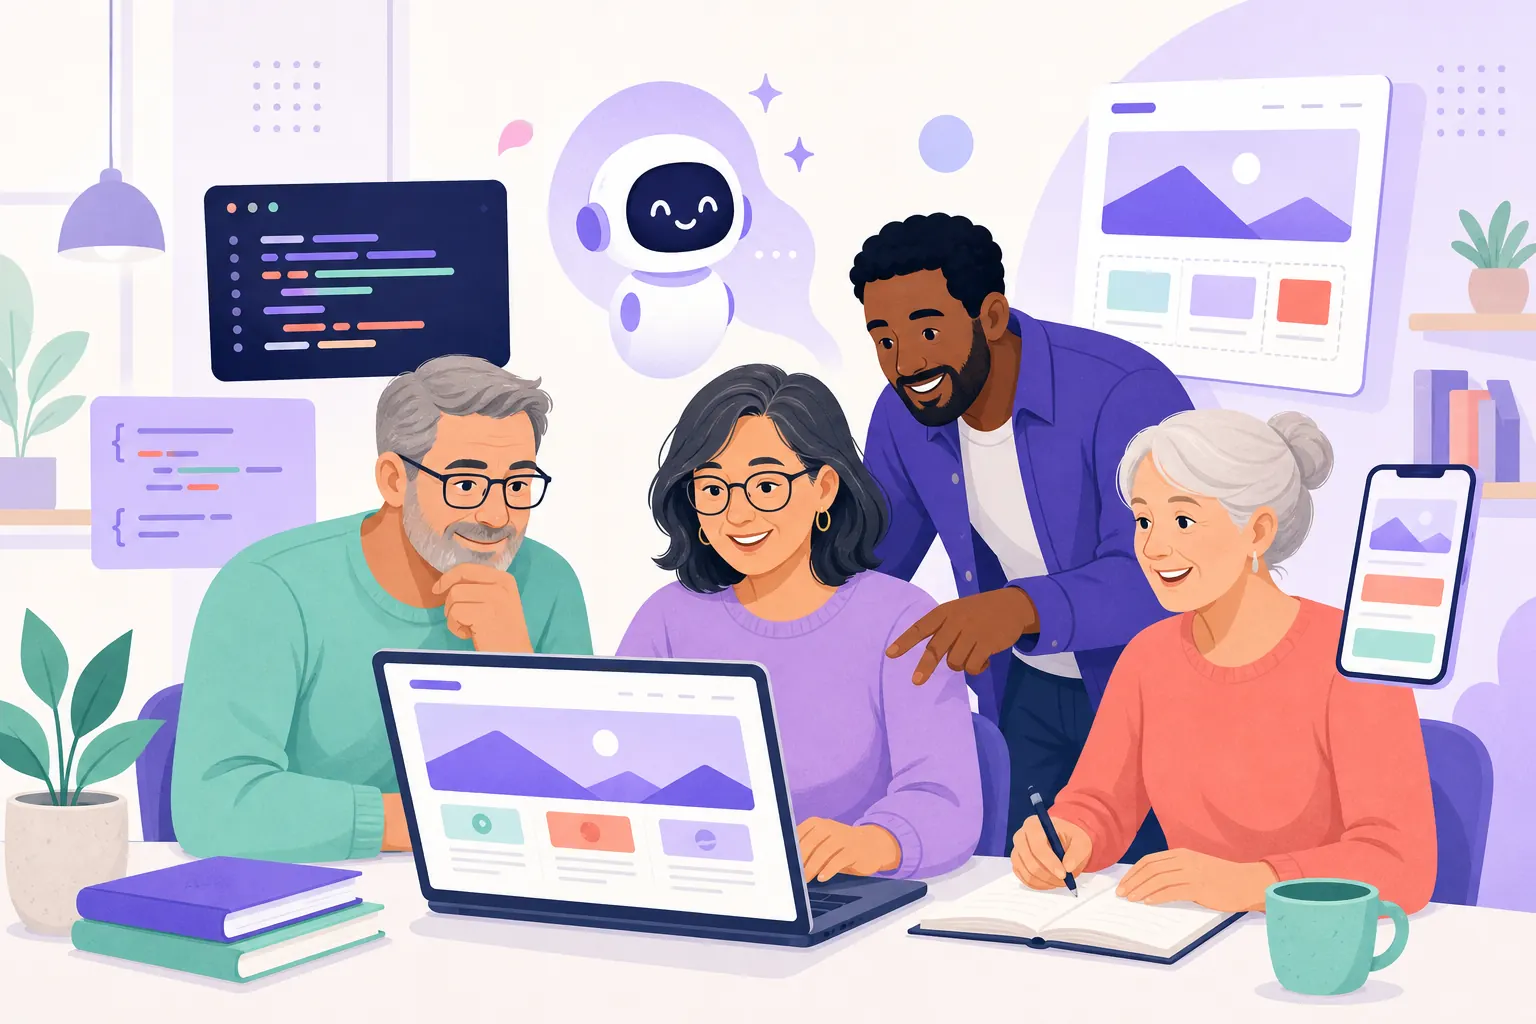
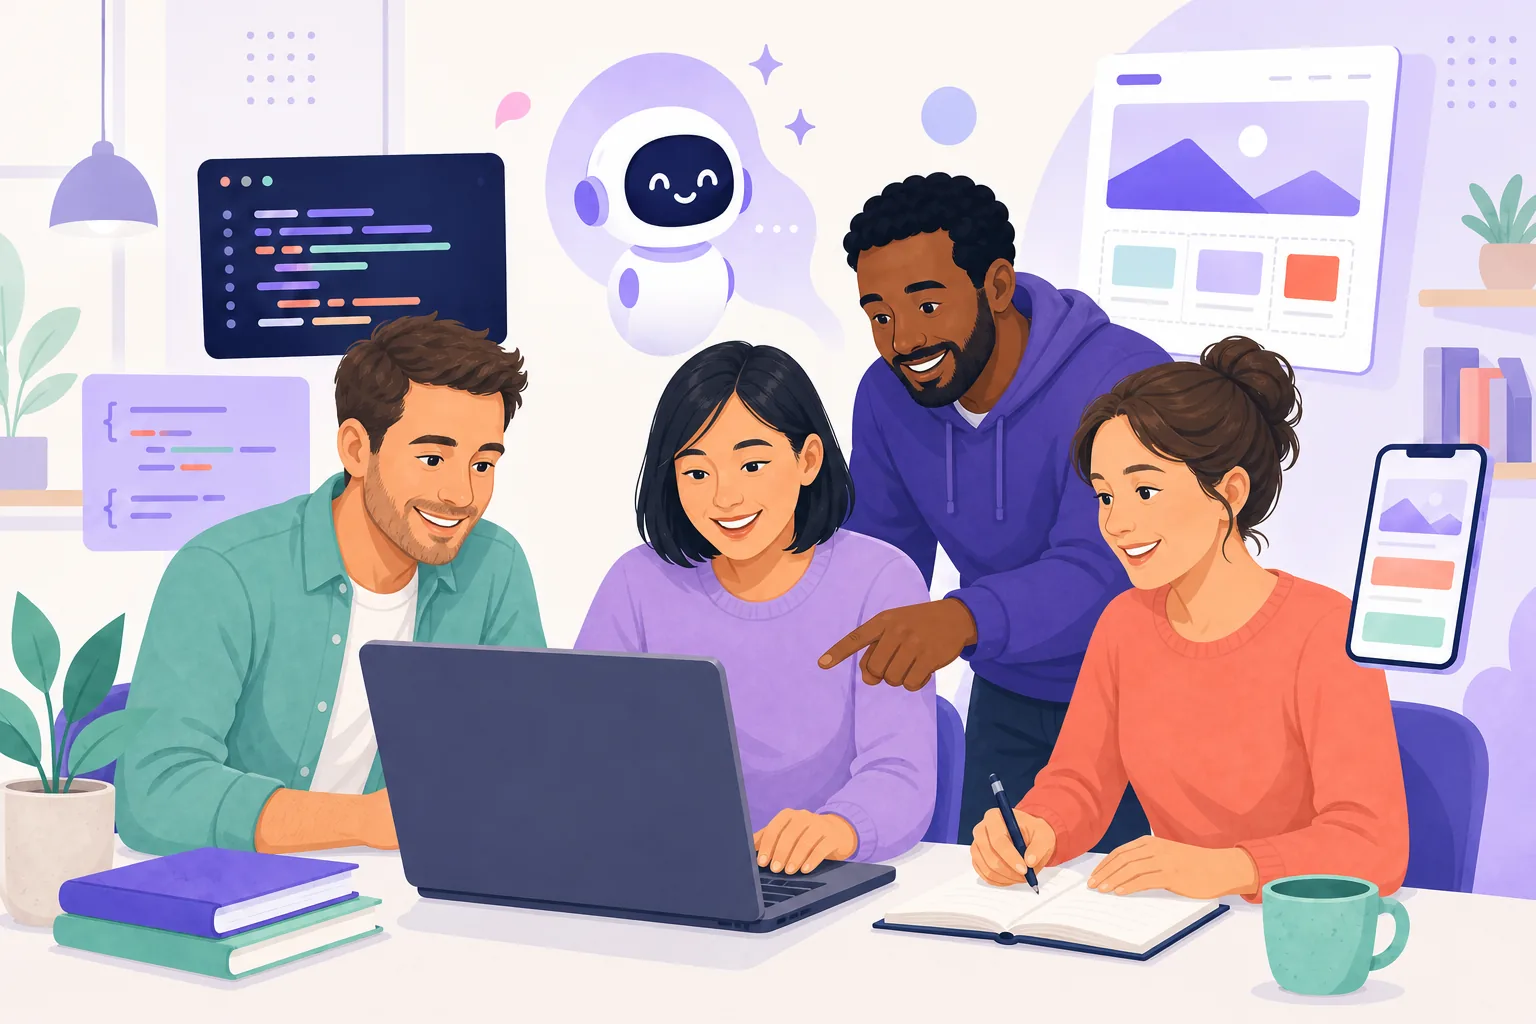
대표 이미지와 교육자료 카드 폭 개선

diff --git a/src/styles/global.css b/src/styles/global.css
@@ -1590,7 +1590,9 @@ button:focus-visible {
 }
 
 .home-learning-soft {
+  width: 100%;
   max-width: none;
+  margin-inline: 0;
   padding-inline: max(24px, calc((100% - var(--shell)) / 2));
   background: #f8f8ff;
 }
